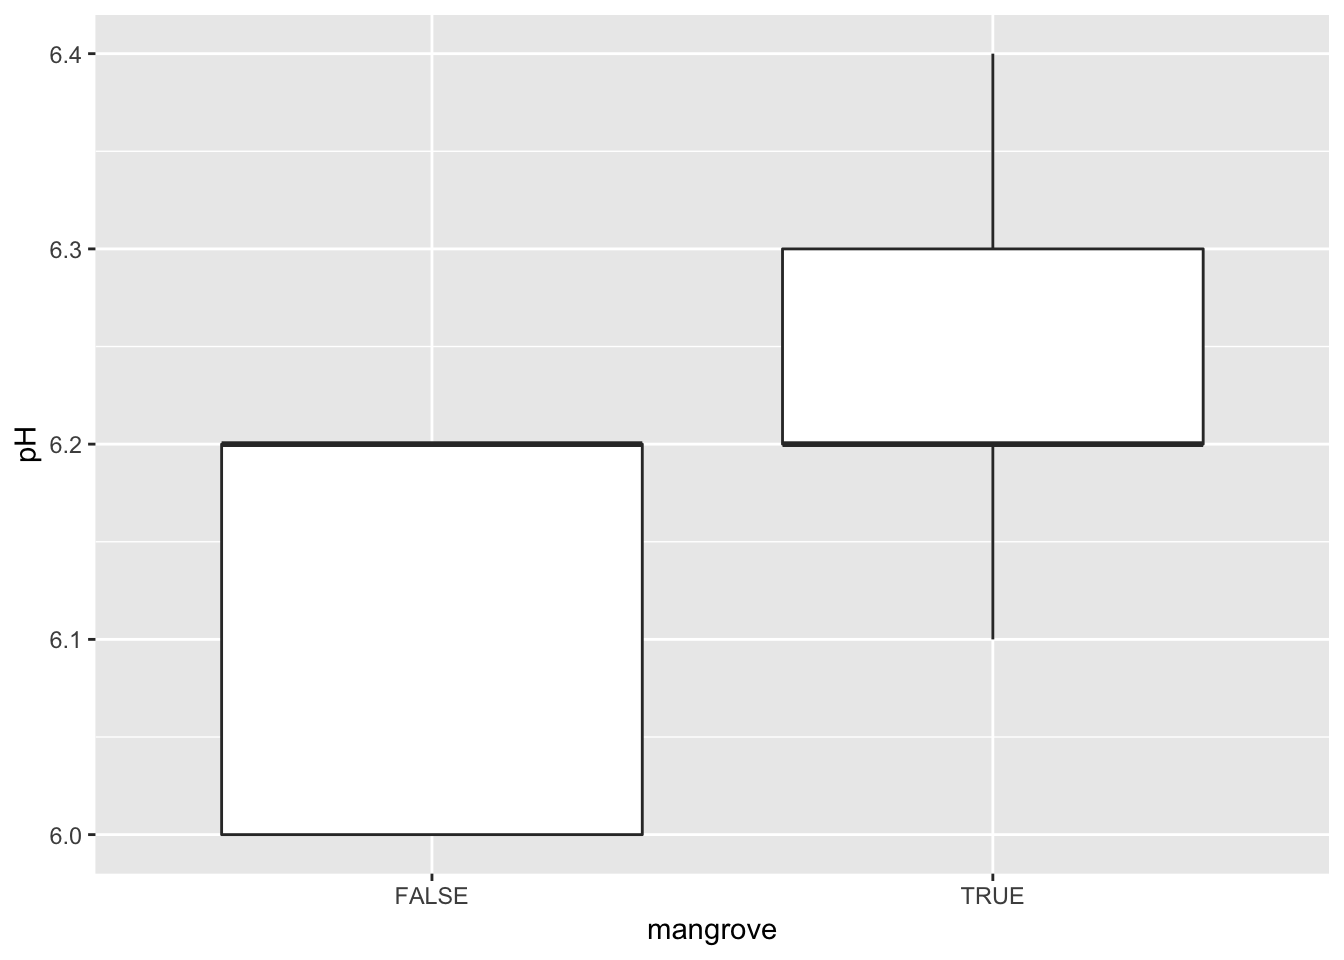
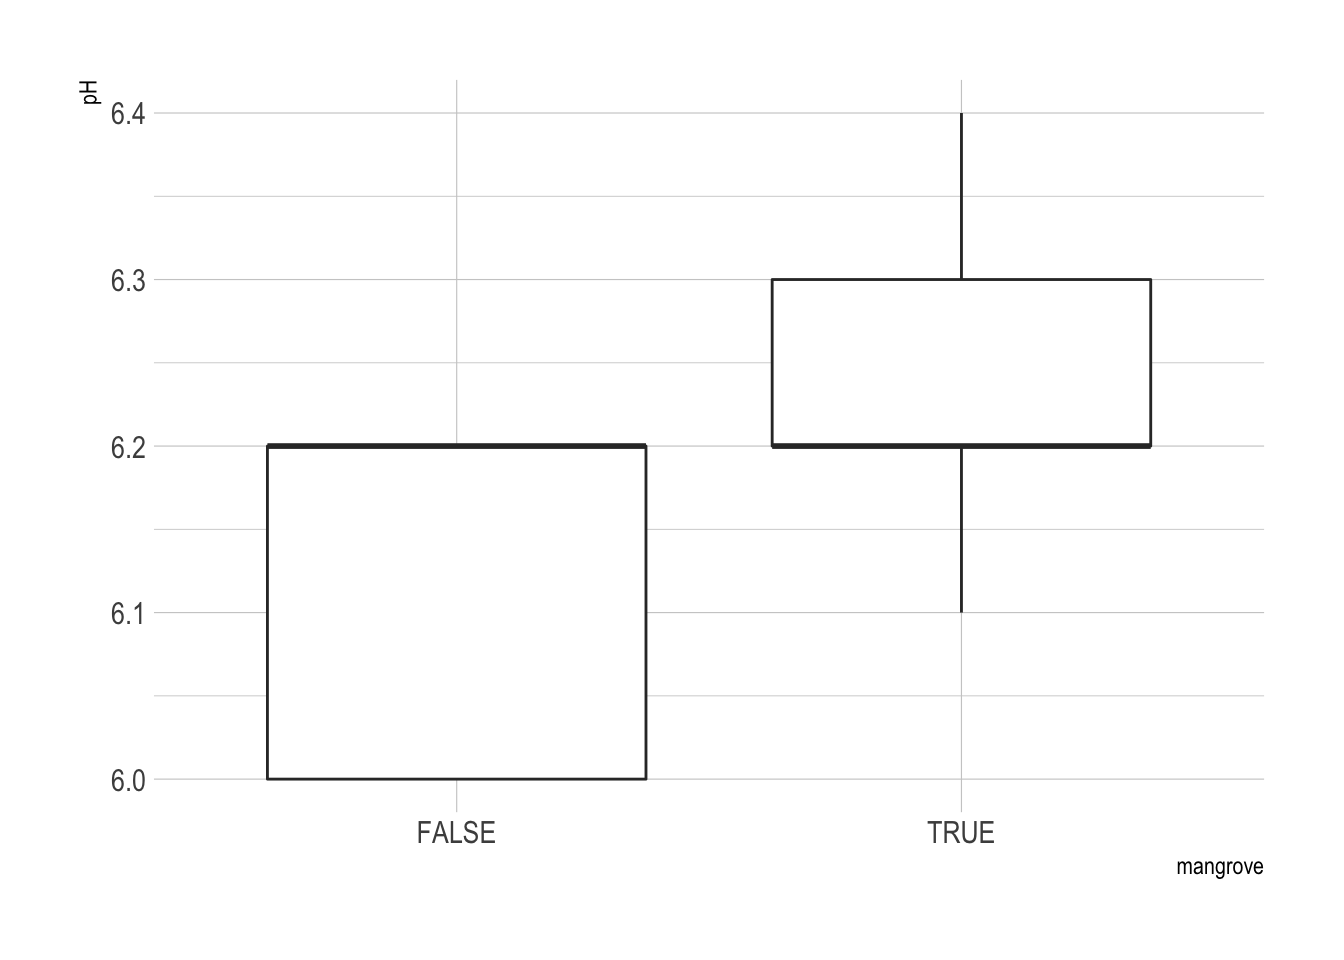
update plots using hrbrmstr

diff --git a/content/post/2019-03-15-heeia.html b/content/post/2019-03-15-heeia.html
@@ -25,7 +25,11 @@ subtitle: ''
 <p>Here’s the raw data.</p>
 <pre class="r"><code>library(googlesheets)
 suppressPackageStartupMessages(library(dplyr))
-library(ggplot2)</code></pre>
+library(ggplot2)
+library(hrbrthemes)</code></pre>
+<pre><code>## NOTE: Either Arial Narrow or Roboto Condensed fonts are required to use these themes.</code></pre>
+<pre><code>##       Please use hrbrthemes::import_roboto_condensed() to install Roboto Condensed and</code></pre>
+<pre><code>##       if Arial Narrow is not on your system, please see http://bit.ly/arialnarrow</code></pre>
 <pre class="r"><code># Change cache flag to F if updating data
 my_sheets &lt;- gs_ls()
 fb &lt;- gs_title(&quot;heeia&quot;)</code></pre>
@@ -81,11 +85,11 @@ x %&gt;% group_by(mangrove) %&gt;%
 ## 1 FALSE      0.898 0.0243    6.13 0.0333           20.8         3.63
 ## 2 TRUE       0.539 0.0377    6.24 0.0294          161.         57.5</code></pre>
 <p>The data do not appear to be normally distributed from looking at these boxplots.</p>
-<pre class="r"><code>ggplot(x, aes(x = mangrove, y = DO)) + geom_boxplot()</code></pre>
+<pre class="r"><code>ggplot(x, aes(x = mangrove, y = DO)) + geom_boxplot() + theme_ipsum()</code></pre>
 <p><img src="/post/2019-03-15-heeia_files/figure-html/unnamed-chunk-5-1.png" width="672" /></p>
-<pre class="r"><code>ggplot(x, aes(x = mangrove, y = pH)) + geom_boxplot()</code></pre>
+<pre class="r"><code>ggplot(x, aes(x = mangrove, y = pH)) + geom_boxplot() + theme_ipsum()</code></pre>
 <p><img src="/post/2019-03-15-heeia_files/figure-html/unnamed-chunk-5-2.png" width="672" /></p>
-<pre class="r"><code>ggplot(x, aes(x = mangrove, y = turbidity)) + geom_boxplot()</code></pre>
+<pre class="r"><code>ggplot(x, aes(x = mangrove, y = turbidity)) + geom_boxplot() + theme_ipsum()</code></pre>
 <p><img src="/post/2019-03-15-heeia_files/figure-html/unnamed-chunk-5-3.png" width="672" /></p>
 </div>
 <div id="dissolved-oxygen-by-mangrove-presence" class="section level2">
@@ -116,11 +120,19 @@ x %&gt;% group_by(mangrove) %&gt;%
   mean.DO = mean(DO), 
   se.DO = sd(DO)/sqrt(obs)
   ) %&gt;%   
-  ggplot(aes(x = mangrove, y = mean.DO, fill = mangrove)) + 
-  geom_bar(stat=&#39;identity&#39;) +
+  ggplot(aes(x = mangrove, y = mean.DO)) + 
+  geom_bar(stat=&#39;identity&#39;,
+           color = &quot;black&quot;,
+           fill = &quot;#99cccc&quot;
+           ) +
   geom_errorbar(aes(ymin = mean.DO - se.DO, ymax = mean.DO + se.DO),
                 width = 0.2,
-                position=position_dodge(0.9))</code></pre>
+                position=position_dodge(0.9)) +
+  ggtitle(&quot;Dissolved Oxygen by Mangrove Presence&quot;) +
+  xlab(&quot;Mangrove Presence&quot;) +
+  ylab(&quot;Dissolved Oxygen (%)&quot;) +
+  theme_ipsum() +
+  scale_y_percent()</code></pre>
 <p><img src="/post/2019-03-15-heeia_files/figure-html/unnamed-chunk-7-1.png" width="672" /></p>
 </div>
 <div id="ph-by-mangrove-presence" class="section level2">
@@ -147,15 +159,22 @@ x %&gt;% group_by(mangrove) %&gt;%
 ## data:  x$pH by x$mangrove
 ## W = 18, p-value = 0.03208
 ## alternative hypothesis: true location shift is not equal to 0</code></pre>
-<pre class="r"><code>x %&gt;% group_by(mangrove) %&gt;% summarize(
+<pre class="r"><code>x %&gt;% group_by(mangrove) %&gt;% 
+summarize(
   mean.pH = mean(pH), 
   se.pH = sd(pH)/sqrt(obs)
   ) %&gt;%   
-  ggplot(aes(x = mangrove, y = mean.pH, fill = mangrove)) + 
-  geom_bar(stat=&#39;identity&#39;) +
+  ggplot(aes(x = mangrove, y = mean.pH)) + 
+  geom_bar(stat=&#39;identity&#39;,
+           color = &quot;black&quot;,
+           fill = &quot;#99cccc&quot;) +
   geom_errorbar(aes(ymin = mean.pH - se.pH, ymax = mean.pH + se.pH),
                 width = 0.2,
-                position=position_dodge(0.9))</code></pre>
+                position=position_dodge(0.9)) +
+  ggtitle(&quot;pH by Mangrove Presence&quot;) +
+  xlab(&quot;Mangrove Presence&quot;) +
+  ylab(&quot;pH&quot;) +
+  theme_ipsum()</code></pre>
 <p><img src="/post/2019-03-15-heeia_files/figure-html/unnamed-chunk-9-1.png" width="672" /></p>
 </div>
 <div id="turbidity-by-mangrove-presence" class="section level2">
@@ -184,12 +203,18 @@ x %&gt;% group_by(mangrove) %&gt;%
   mean.turbidity = mean(turbidity), 
   se.turbidity = sd(turbidity)/sqrt(obs)
   ) %&gt;%   
-  ggplot(aes(x = mangrove, y = mean.turbidity, fill = mangrove)) + 
-  geom_bar(stat=&#39;identity&#39;) +
+  ggplot(aes(x = mangrove, y = mean.turbidity)) + 
+  geom_bar(stat=&#39;identity&#39;,
+           color = &quot;black&quot;,
+           fill = &quot;#99cccc&quot;) +
   geom_errorbar(aes(ymin = mean.turbidity - se.turbidity, 
                     ymax = mean.turbidity + se.turbidity),
                 width = 0.2,
-                position=position_dodge(0.9))</code></pre>
+                position=position_dodge(0.9)) +
+  ggtitle(&quot;Turbidity by Mangrove Presence&quot;) +
+  xlab(&quot;Mangrove Presence&quot;) +
+  ylab(&quot;Turbidity&quot;) +
+  theme_ipsum()</code></pre>
 <p><img src="/post/2019-03-15-heeia_files/figure-html/unnamed-chunk-11-1.png" width="672" /></p>
 </div>
 <div id="multivariable-model-for-dissolved-oxygen" class="section level2">
